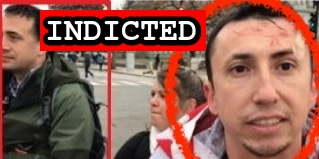
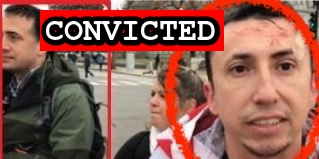
Guilty pleas

Changed region(s): [[0.1129, 0.0503, 0.7053, 0.327], [0.5361, 0.2767, 0.5643, 0.3019]]

diff --git a/docs/_suspects/kevin-cordon.md b/docs/_suspects/kevin-cordon.md
@@ -3,11 +3,11 @@ name: Kevin Cordon
 lastName: Cordon
 aka:
 residence: California
-status: Indicted
+status: Convicted
 date: 2021-03-09
 charged: 2021-03-09
 indicted: 2021-04-02
-convicted: 
+convicted: 2021-08-27
 sentenced: 
 dismissed: 
 deceased:

diff --git a/docs/_suspects/sean-cordon.md b/docs/_suspects/sean-cordon.md
@@ -3,11 +3,11 @@ name: Sean Cordon
 lastName: Cordon
 aka:
 residence: California
-status: Charged
+status: Convicted
 date: 2021-03-09
 charged: 2021-03-09
 indicted:
-convicted: 
+convicted: 2021-08-27
 sentenced: 
 dismissed: 
 deceased:
